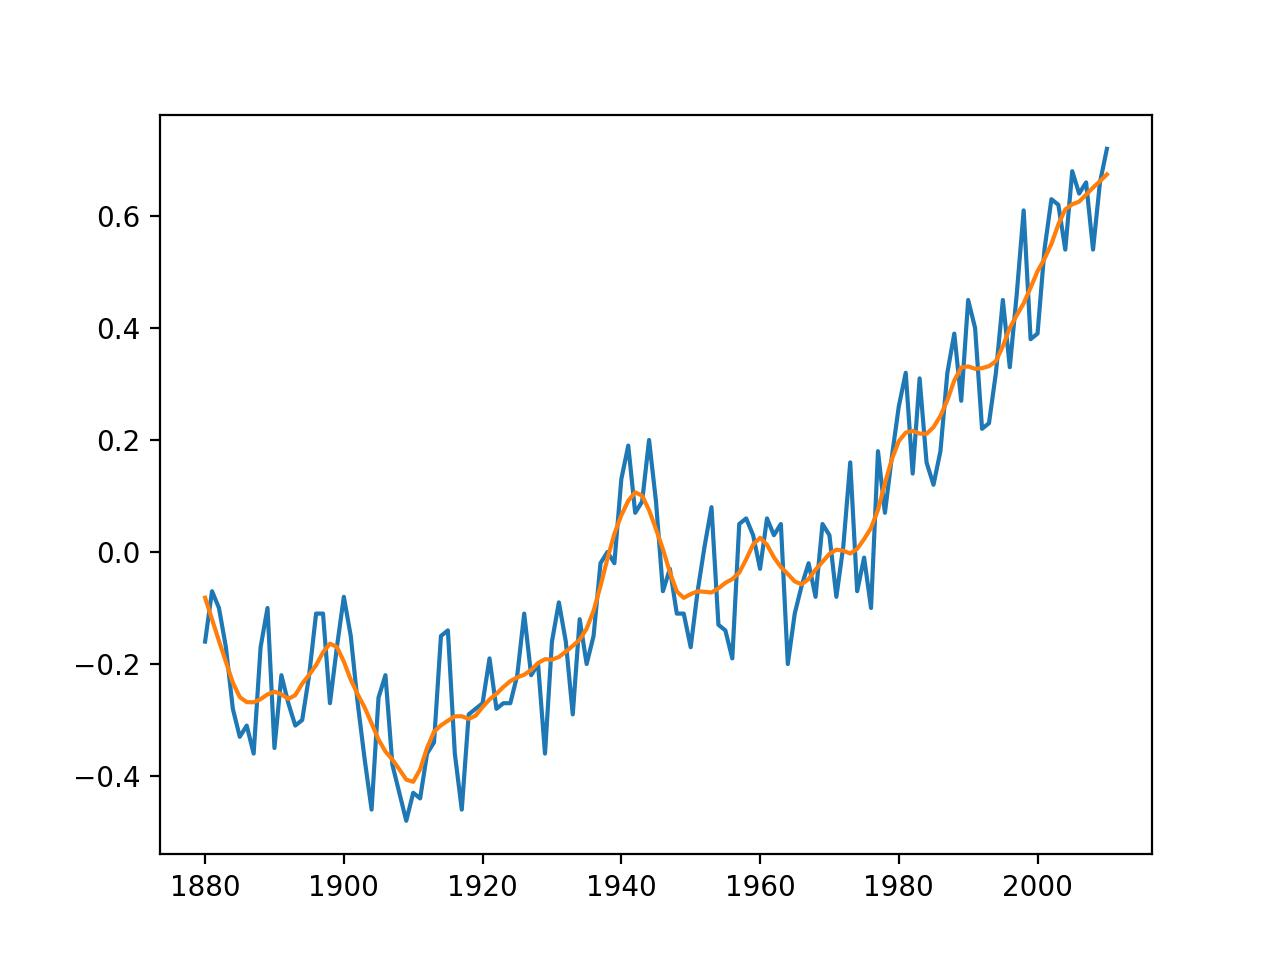
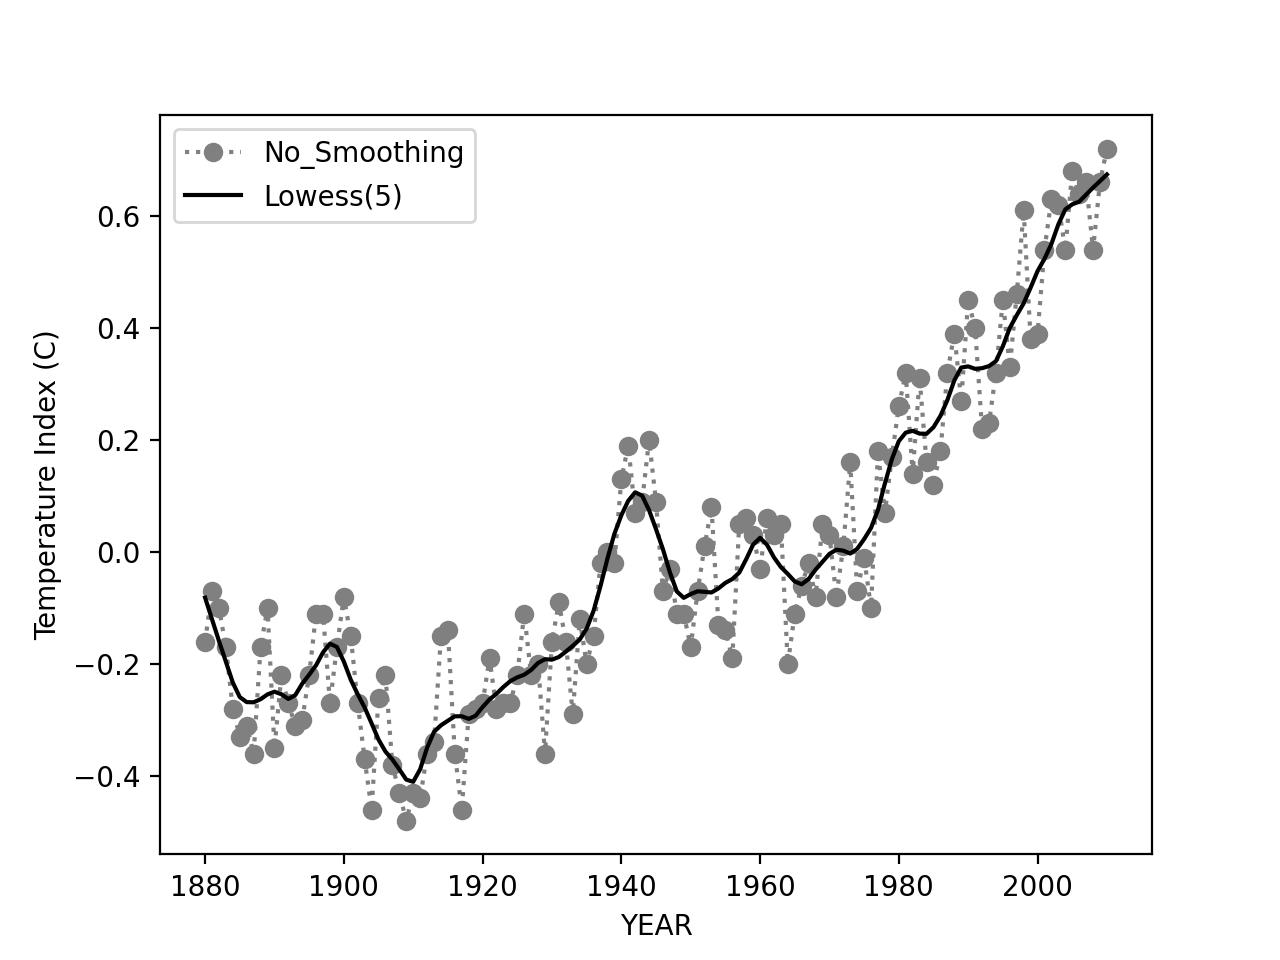
change format #5

diff --git a/lab5/5.py b/lab5/5.py
@@ -6,12 +6,6 @@ import matplotlib.pyplot as plt
 import numpy as np
 import statsmodels.api as sm
 
-async def getGraph(x:np.ndarray, y:np.ndarray):
-    # plt.scatter(x, y)
-    plt.plot(x, y)
-    pass
-
-
 async def process(X:np.ndarray, Y:np.ndarray):
     lowess = sm.nonparametric.lowess
     n = np.size(X, 0);
@@ -37,8 +31,12 @@ async def main(params):
                 z = await process(np.array(x), np.array(y))
                 for a, b, c in zip(x, y, z):
                     print(a, b, round(c, 2))
-                await getGraph(x, y)
-                await getGraph(x, z)
+                
+                plt.xlabel("YEAR")
+                plt.ylabel("Temperature Index (C)")
+                plt.plot(x, y, "o:", color='grey', label="No_Smoothing")
+                plt.plot(x, z, "k", label="Lowess(5)")
+                plt.legend()
                 plt.savefig('./test.jpg', dpi=200)
 
             else:
